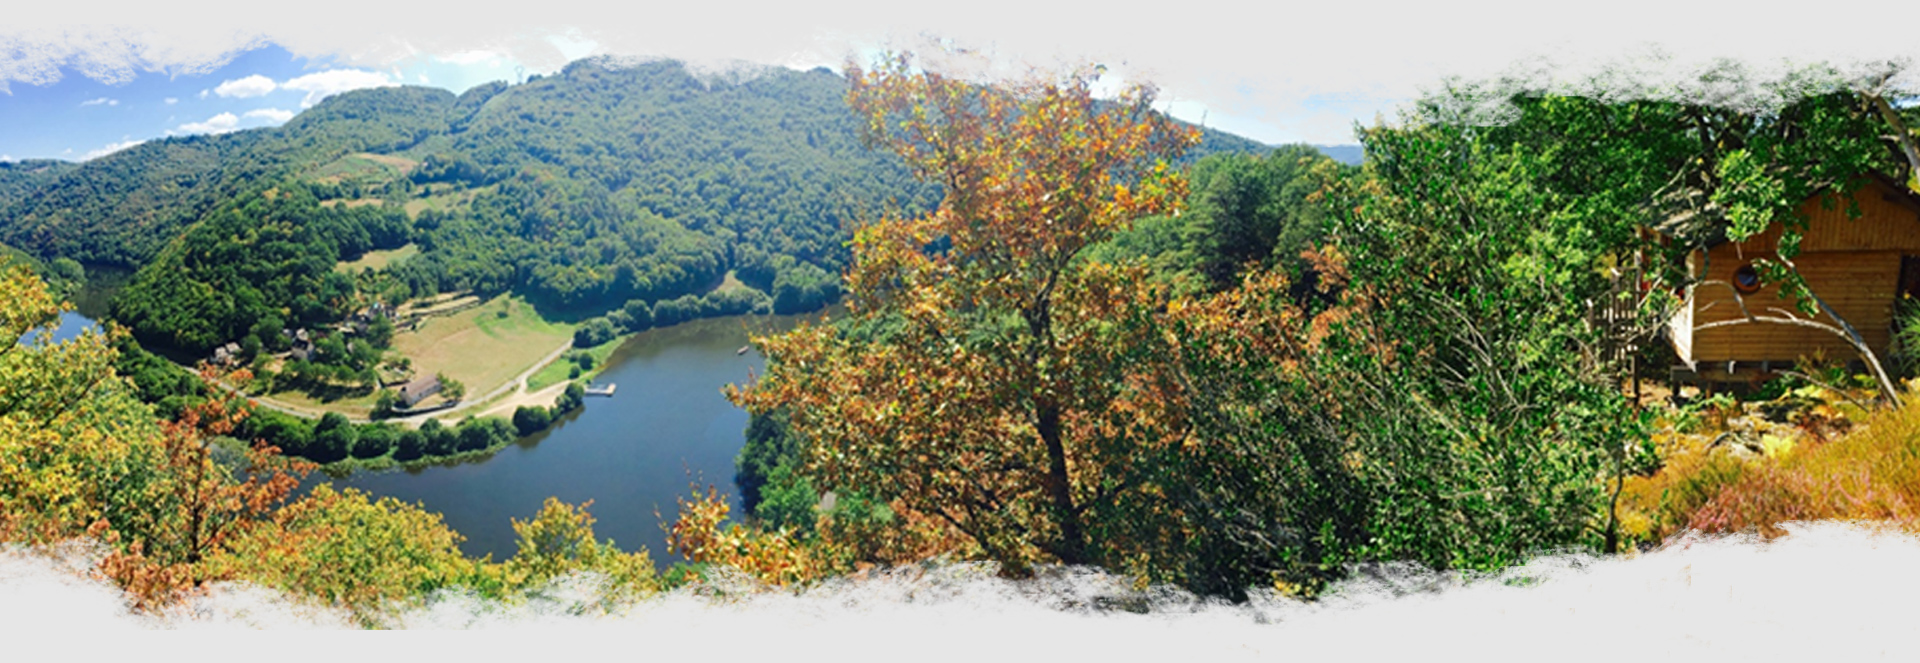
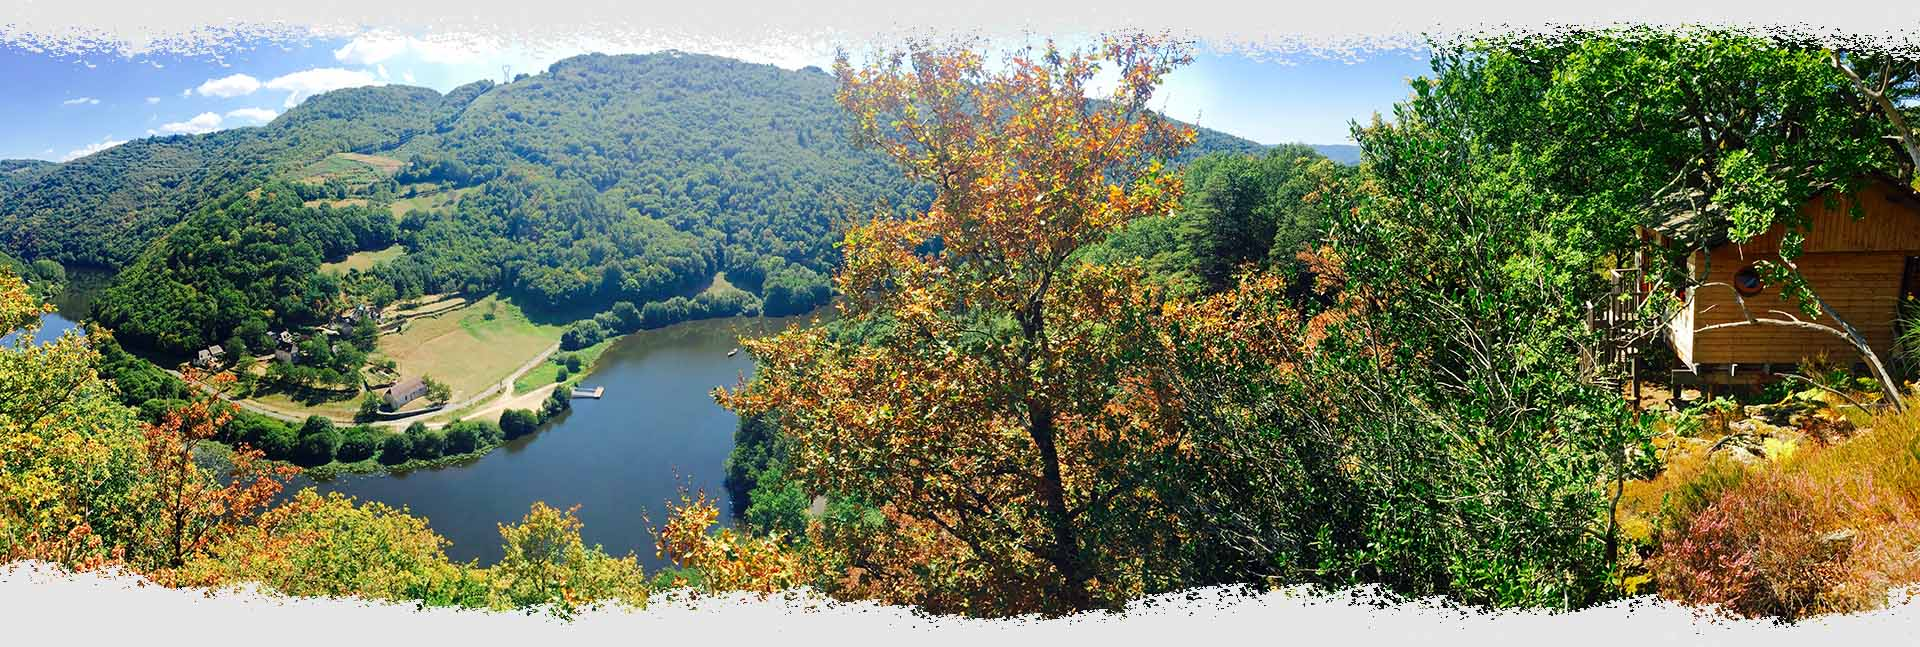
new panoramics

diff --git a/src/components/PageHeader.jsx b/src/components/PageHeader.jsx
@@ -30,9 +30,11 @@ const Title = styled.div`
   }
 `;
 
-const PageHeader = ({ children }) => {
+const PageHeader = ({ children, page }) => {
   const data = useStaticQuery(query);
-  const panoramicImg = data.panoramicImg.childImageSharp.fluid;
+  const panoramicImg =
+    data[page === 'infos' ? 'panoramicImgInfos' : 'panoramicImgIntro']
+      .childImageSharp.fluid;
 
   return (
     <Wrapper>
@@ -44,7 +46,18 @@ const PageHeader = ({ children }) => {
 
 export const query = graphql`
   query {
-    panoramicImg: file(relativePath: { eq: "images/panoramic.jpg" }) {
+    panoramicImgInfos: file(
+      relativePath: { eq: "images/panoramic-infos.jpg" }
+    ) {
+      childImageSharp {
+        fluid(maxWidth: 2880) {
+          ...GatsbyImageSharpFluid
+        }
+      }
+    }
+    panoramicImgIntro: file(
+      relativePath: { eq: "images/panoramic-intro.jpg" }
+    ) {
       childImageSharp {
         fluid(maxWidth: 2880) {
           ...GatsbyImageSharpFluid

diff --git a/src/pages/index.jsx b/src/pages/index.jsx
@@ -13,7 +13,7 @@ import { ModalProvider } from '../components/Modal';
 
 const Section = styled.section`
   position: relative;
-  height: 110vh;
+  height: 100vh;
 `;
 
 const BgImg = styled(Img)`
@@ -136,7 +136,7 @@ export const query = graphql`
         }
       }
     }
-    bgImg: file(relativePath: { eq: "images/accueil.jpg" }) {
+    bgImg: file(relativePath: { eq: "images/home.jpg" }) {
       childImageSharp {
         fluid(maxWidth: 2880) {
           ...GatsbyImageSharpFluid

diff --git a/src/pages/qui-sommes-nous.jsx b/src/pages/qui-sommes-nous.jsx
@@ -15,7 +15,7 @@ const Text = styled.span`
 export default () => {
   return (
     <Page bgImgs={false}>
-      <PageHeader>
+      <PageHeader page="intro">
         <Text>Qui</Text> Somme Nous ?
       </PageHeader>
       <Introducing />

diff --git a/src/pages/infos-pratiques.jsx b/src/pages/infos-pratiques.jsx
@@ -17,7 +17,7 @@ const Text = styled.span`
 export default () => {
   return (
     <Page bgImgs={false}>
-      <PageHeader>
+      <PageHeader page="infos">
         <Text>Infos</Text> Pratiques
       </PageHeader>
       <ToKnow />
